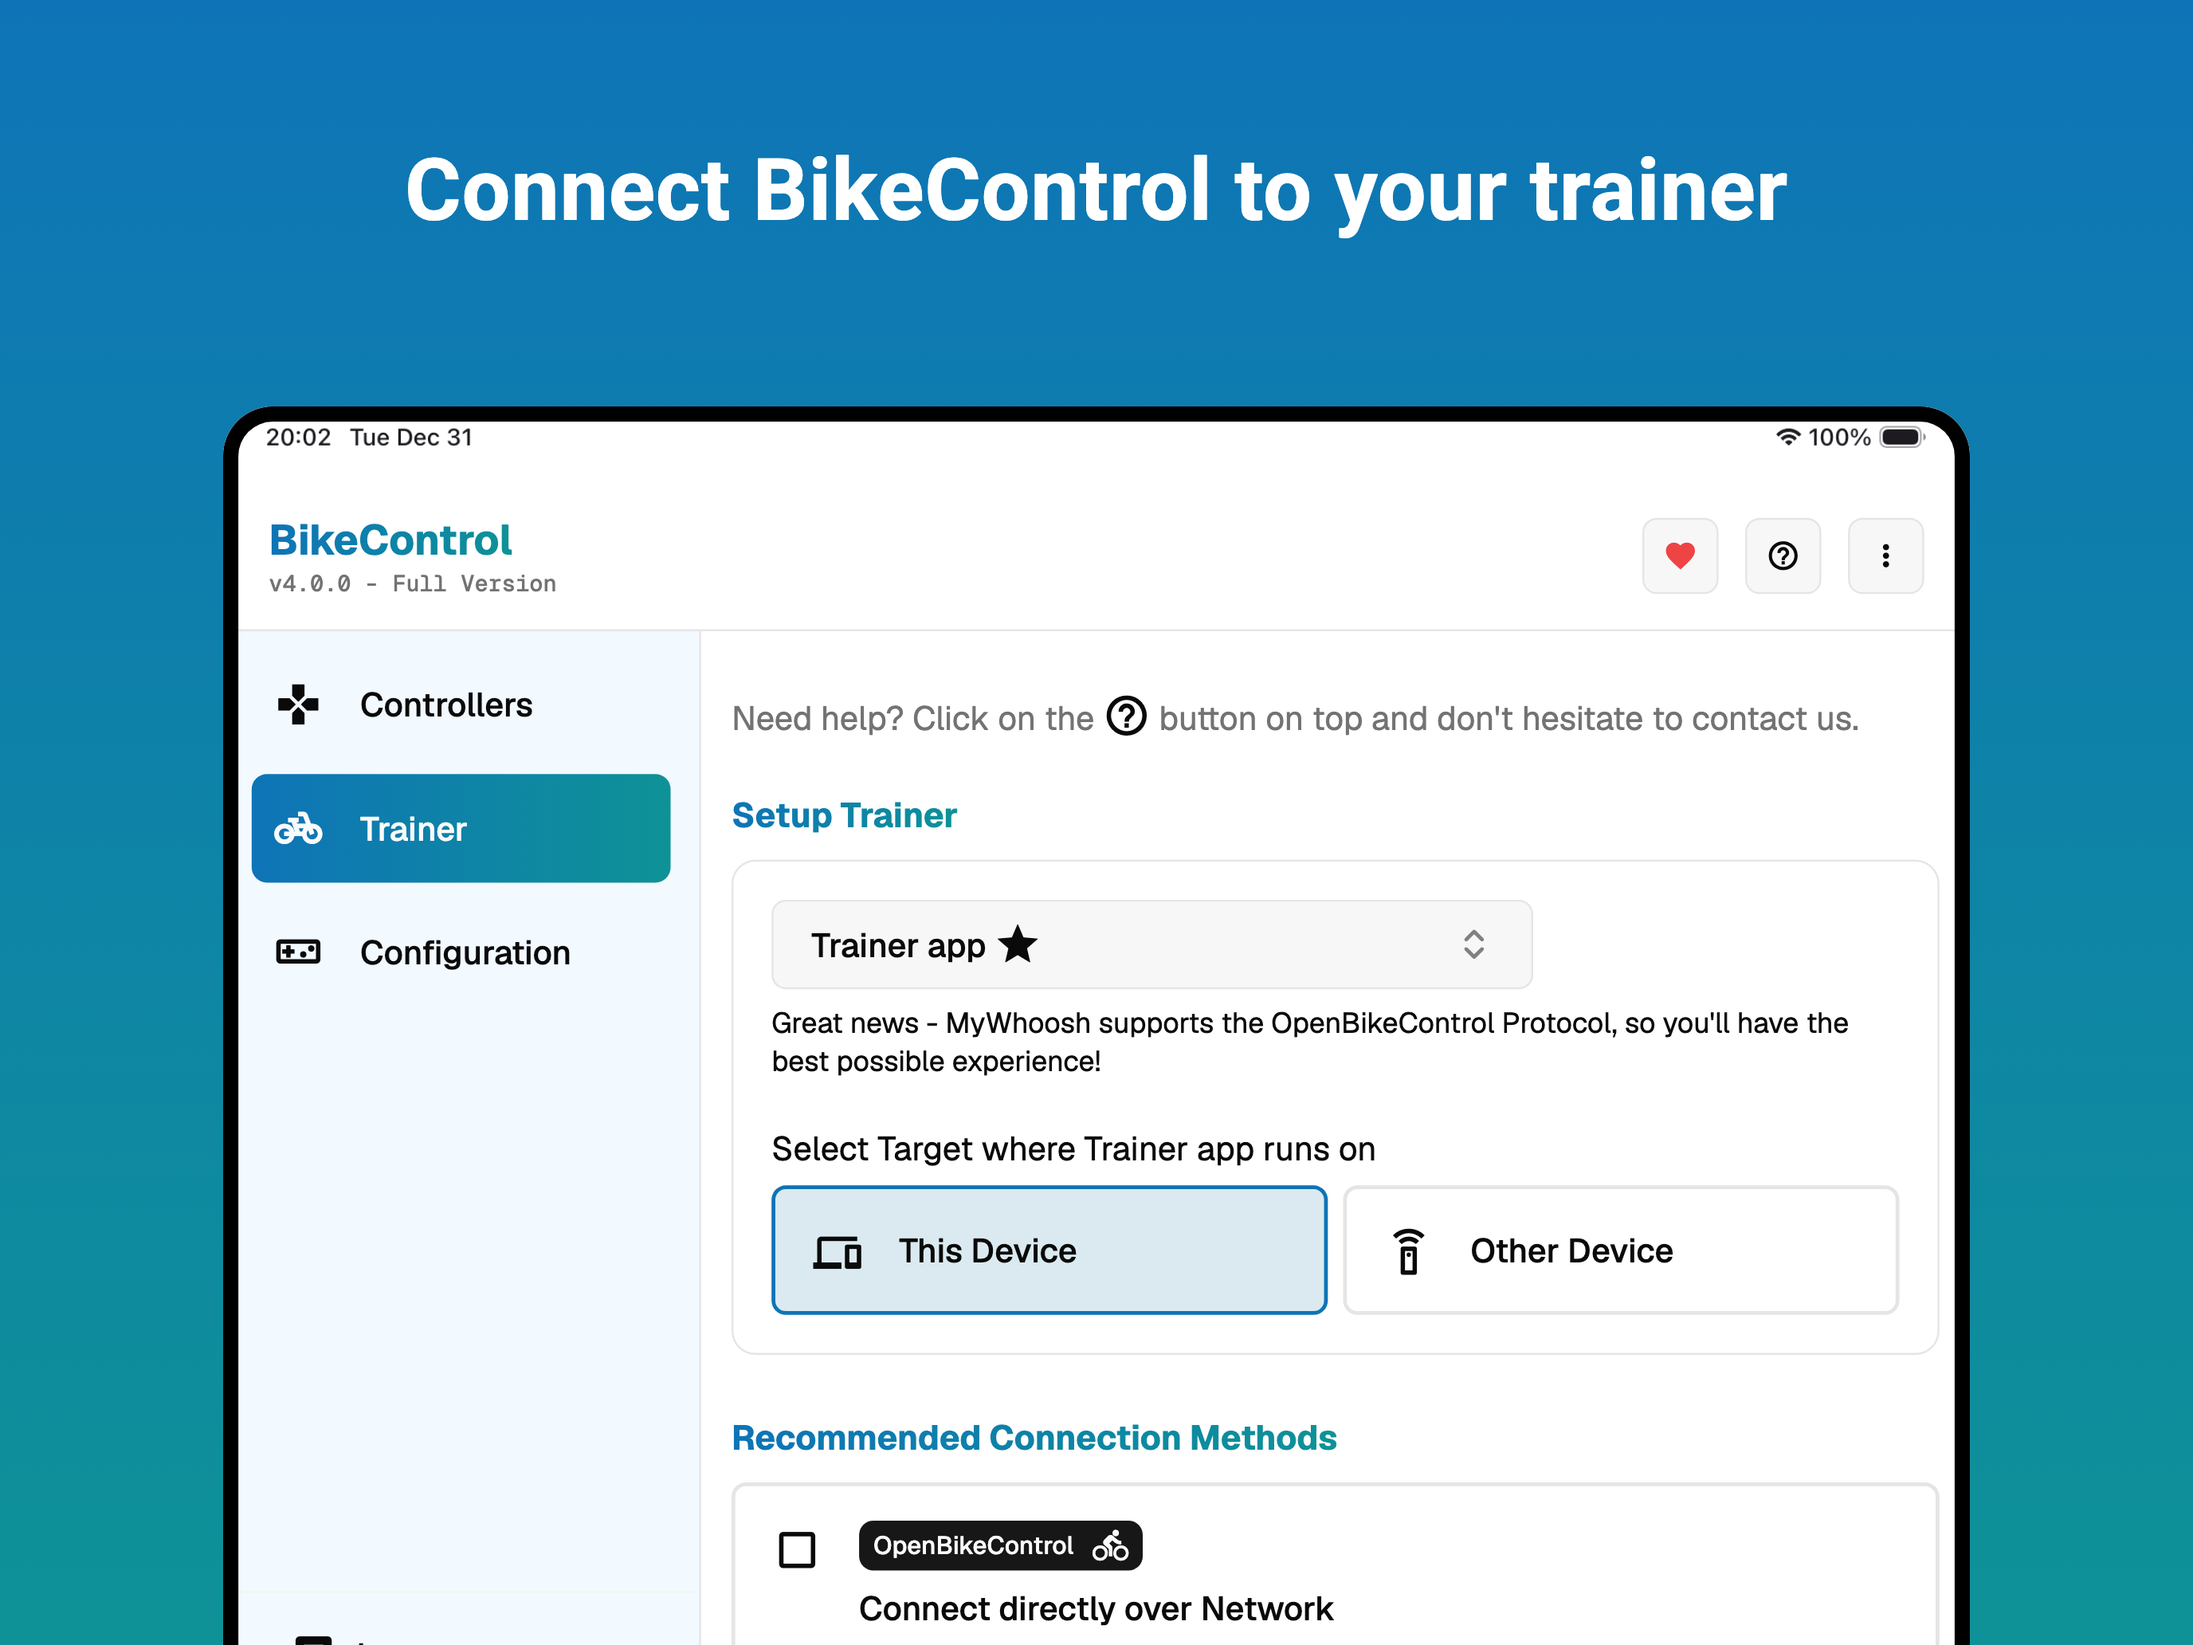
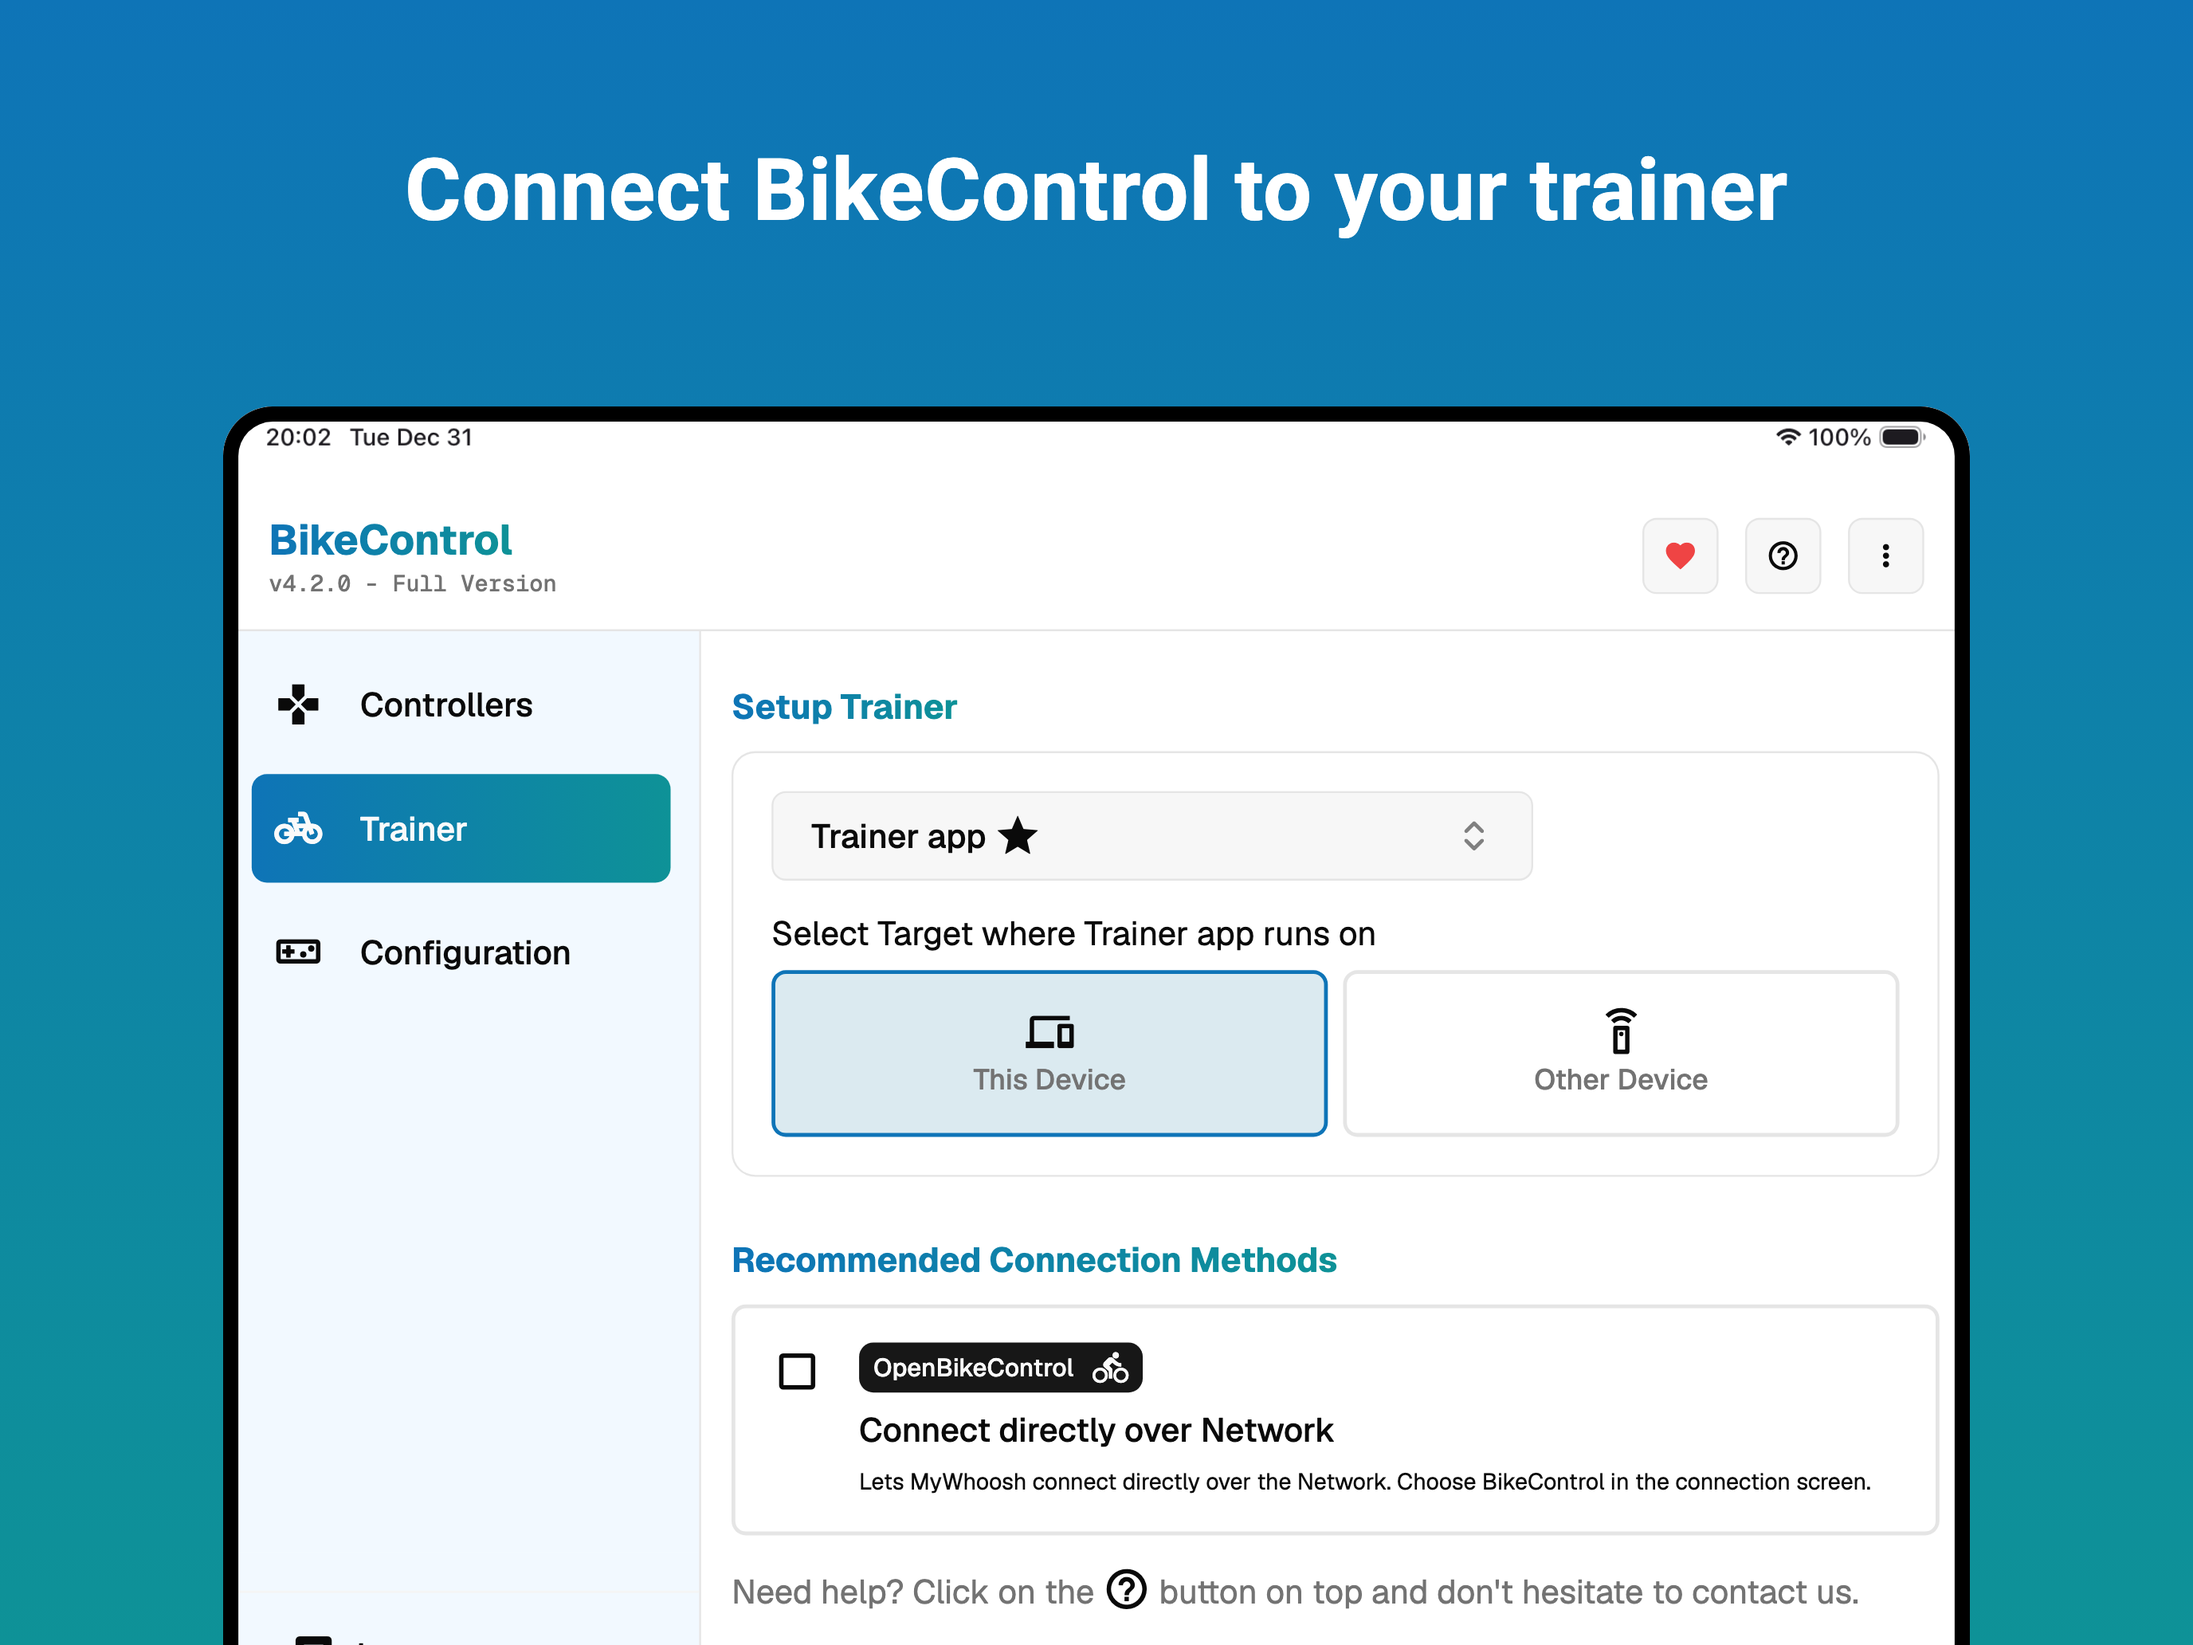
screenshots

Changed region(s): [[0.3125, 0.5581, 0.875, 0.9922], [0.3438, 0.4031, 0.8438, 0.5271], [0.6875, 0.5891, 0.8438, 0.6822]]

diff --git a/lib/widgets/scan.dart b/lib/widgets/scan.dart
@@ -1,6 +1,7 @@
 import 'dart:io';
 
 import 'package:bike_control/gen/l10n.dart';
+import 'package:bike_control/main.dart';
 import 'package:bike_control/pages/button_simulator.dart';
 import 'package:bike_control/pages/markdown.dart';
 import 'package:bike_control/utils/core.dart';
@@ -112,57 +113,58 @@ class _ScanWidgetState extends State<ScanWidget> {
                         },
                       ),
                     SizedBox(),
-                    Column(
-                      spacing: 8,
-                      crossAxisAlignment: CrossAxisAlignment.start,
-                      children: [
-                        OutlineButton(
-                          onPressed: () {
-                            Navigator.push(
-                              context,
-                              MaterialPageRoute(builder: (c) => MarkdownPage(assetPath: 'TROUBLESHOOTING.md')),
-                            );
-                          },
-                          leading: Icon(Icons.help_outline),
-                          child: Text(context.i18n.showTroubleshootingGuide),
-                        ),
-                        OutlineButton(
-                          onPressed: () {
-                            launchUrlString(
-                              'https://github.com/jonasbark/swiftcontrol/?tab=readme-ov-file#supported-devices',
-                            );
-                          },
-                          leading: Icon(Icons.gamepad_outlined),
-                          child: Text(context.i18n.showSupportedControllers),
-                        ),
-                        if (core.settings.getIgnoredDevices().isNotEmpty)
+                    if (!screenshotMode)
+                      Column(
+                        spacing: 8,
+                        crossAxisAlignment: CrossAxisAlignment.start,
+                        children: [
                           OutlineButton(
-                            leading: Icon(Icons.block_outlined),
-                            onPressed: () async {
-                              await showDialog(
-                                context: context,
-                                builder: (context) => IgnoredDevicesDialog(),
-                              );
-                              setState(() {});
-                            },
-                            child: Text(context.i18n.manageIgnoredDevices),
-                          ),
-
-                        if (core.connection.controllerDevices.isEmpty)
-                          PrimaryButton(
-                            leading: Icon(Icons.computer_outlined),
                             onPressed: () {
                               Navigator.push(
                                 context,
-                                MaterialPageRoute(
-                                  builder: (c) => ButtonSimulator(),
-                                ),
+                                MaterialPageRoute(builder: (c) => MarkdownPage(assetPath: 'TROUBLESHOOTING.md')),
                               );
                             },
-                            child: Text(AppLocalizations.of(context).noControllerUseCompanionMode),
+                            leading: Icon(Icons.help_outline),
+                            child: Text(context.i18n.showTroubleshootingGuide),
                           ),
-                      ],
-                    ),
+                          OutlineButton(
+                            onPressed: () {
+                              launchUrlString(
+                                'https://github.com/jonasbark/swiftcontrol/?tab=readme-ov-file#supported-devices',
+                              );
+                            },
+                            leading: Icon(Icons.gamepad_outlined),
+                            child: Text(context.i18n.showSupportedControllers),
+                          ),
+                          if (core.settings.getIgnoredDevices().isNotEmpty)
+                            OutlineButton(
+                              leading: Icon(Icons.block_outlined),
+                              onPressed: () async {
+                                await showDialog(
+                                  context: context,
+                                  builder: (context) => IgnoredDevicesDialog(),
+                                );
+                                setState(() {});
+                              },
+                              child: Text(context.i18n.manageIgnoredDevices),
+                            ),
+
+                          if (core.connection.controllerDevices.isEmpty)
+                            PrimaryButton(
+                              leading: Icon(Icons.computer_outlined),
+                              onPressed: () {
+                                Navigator.push(
+                                  context,
+                                  MaterialPageRoute(
+                                    builder: (c) => ButtonSimulator(),
+                                  ),
+                                );
+                              },
+                              child: Text(AppLocalizations.of(context).noControllerUseCompanionMode),
+                            ),
+                        ],
+                      ),
                   ],
                 );
               } else {

diff --git a/lib/pages/configuration.dart b/lib/pages/configuration.dart
@@ -111,7 +111,7 @@ class _ConfigurationPageState extends State<ConfigurationPage> {
                       },
                     ),
                     if (core.settings.getTrainerApp() != null) ...[
-                      if (core.settings.getTrainerApp()!.supportsOpenBikeProtocol == true)
+                      if (core.settings.getTrainerApp()!.supportsOpenBikeProtocol == true && !screenshotMode)
                         Text(
                           AppLocalizations.of(context).openBikeControlAnnouncement(core.settings.getTrainerApp()!.name),
                         ).xSmall,
@@ -162,7 +162,7 @@ class _ConfigurationPageState extends State<ConfigurationPage> {
                         ],
                       ),
                     ],
-                    if (core.settings.getTrainerApp()?.star == true)
+                    if (core.settings.getTrainerApp()?.star == true && !screenshotMode)
                       Row(
                         spacing: 8,
                         children: [

diff --git a/lib/pages/customize.dart b/lib/pages/customize.dart
@@ -23,7 +23,7 @@ class _CustomizeState extends State<CustomizePage> {
   @override
   Widget build(BuildContext context) {
     return SingleChildScrollView(
-      padding: EdgeInsets.symmetric(vertical: 32, horizontal: 16),
+      padding: EdgeInsets.all(16),
       child: Column(
         spacing: 12,
         mainAxisAlignment: MainAxisAlignment.start,

diff --git a/test/screenshot_test.dart b/test/screenshot_test.dart
@@ -32,7 +32,7 @@ Future<void> main() async {
   PackageInfo.setMockInitialValues(
     appName: 'BikeControl',
     packageName: 'de.jonasbark.swiftcontrol',
-    version: '4.0.0',
+    version: '4.2.0',
     buildNumber: '1',
     buildSignature: '',
   );
